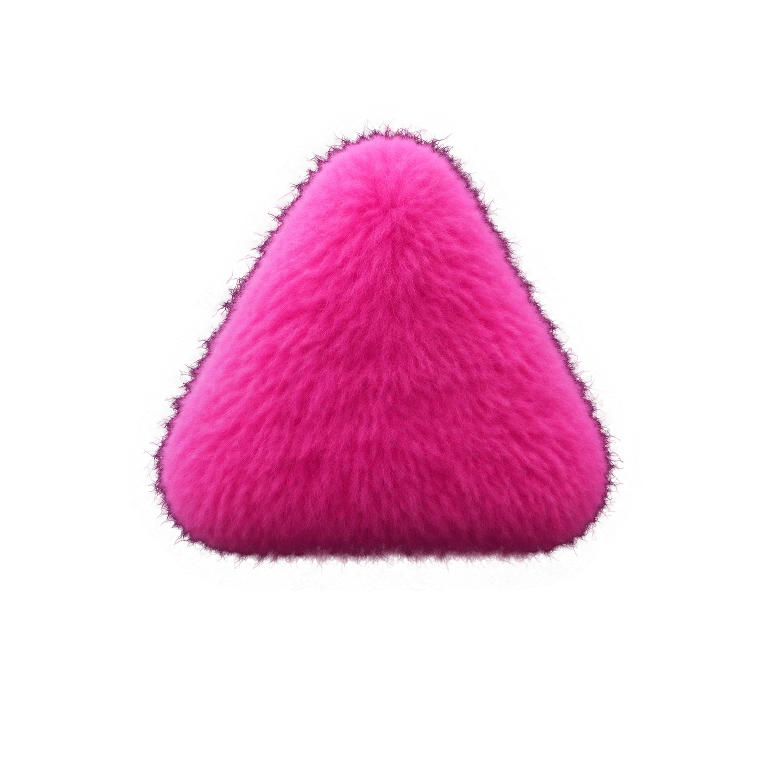
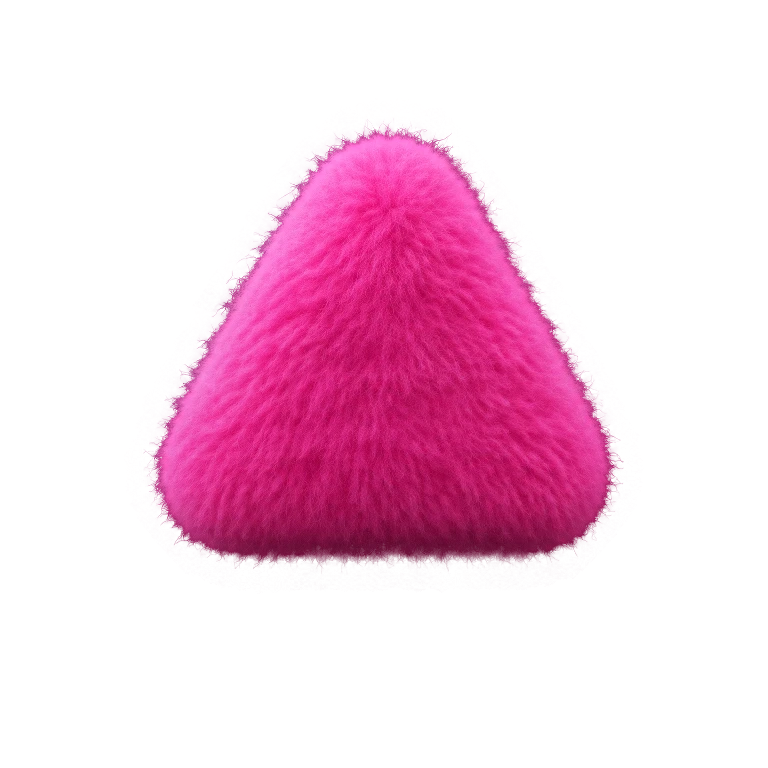
fix: light the dark rim of the plush bodies (0.6.4)
The bodies were cut out on a dark background, so the fibres at the edge
stayed dark and nearly opaque. On a light page they drew a dirty outline.
tools/peluche/fit/lisiere.py lightens that band toward the nearest fur
colour, without a change to alpha. It ran on the v0.6.3 character bodies,
grey shapes and ball. The eye pads did not change.

diff --git a/tools/peluche/fit/lisiere.py b/tools/peluche/fit/lisiere.py
@@ -1,0 +1,75 @@
+"""Lisiere : les fibres du bord prennent la couleur de la fourrure voisine.
+
+    python3 -I lisiere.py <dossier-source> <dossier-sortie>
+
+Les generations sont detourees sur un fond sombre uni (`detoure`, `compose.py`). Les
+fibres que la generation a dessinees sombres au bord restent donc sombres et presque
+opaques : invisibles sur un fond sombre, elles font un contour sale sur un fond clair.
+Ce script eclaircit cette lisiere vers la couleur de la fourrure la plus proche, sans
+toucher a l'alpha : la silhouette et le halo de fibres sont les memes.
+
+Il traite les corps des personnages (`*-corps.webp`), les corps gris (`forme-*.webp`) et
+la boule (`boule.webp`). Pas les patins : leur ombre portee sombre est voulue.
+
+La source est celle de 0.6.3 (`git show v0.6.3:src/plush/assets/<f>`), **jamais sa propre
+sortie** : une seconde passe eclaircirait encore la lisiere.
+"""
+import os, sys
+import numpy as np
+from PIL import Image
+from scipy import ndimage
+
+# CHOISIS, juges a l'oeil sur fond clair (#f5f5f6) et sombre (#1a1a1a), de 240 a 480 px.
+# La lisiere, en fraction du cote de l'image : au-dela, la fourrure ne change pas.
+BANDE = 0.02
+# La part de la couleur voisine dans la lisiere, au bord meme.
+FORCE = 0.85
+# La part du relief propre de chaque fibre gardee (sa luminance relative a la voisine).
+RELIEF = 0.35
+# La couleur voisine est lissee sur ce rayon (fraction du cote) : le grain du coeur n'y passe pas.
+LISSE = 0.008
+
+LUM = np.array([0.2126, 0.7152, 0.0722], np.float32)
+
+
+def lisiere(a):
+    """a : RGBA flottant 0..255. Rend le meme tableau, la lisiere eclaircie."""
+    rgb, al = a[..., :3], a[..., 3] / 255
+    cote = max(al.shape)
+    bande = BANDE * cote
+    corps = al > 0.5
+    profondeur = ndimage.distance_transform_edt(corps)
+    coeur = profondeur >= bande
+    # la couleur du coeur la plus proche, lissee : elle garde la lumiere haut-gauche
+    lisse = ndimage.gaussian_filter(rgb * coeur[..., None], (LISSE * cote, LISSE * cote, 0))
+    poids = ndimage.gaussian_filter(coeur.astype(np.float32), LISSE * cote)
+    lisse = lisse / np.maximum(poids, 1e-6)[..., None]
+    _, (iy, ix) = ndimage.distance_transform_edt(~coeur, return_indices=True)
+    voisine = lisse[iy, ix]
+    # le relief de la fibre, compresse : une fibre plus sombre reste un peu plus sombre
+    relatif = (rgb @ LUM) / np.maximum(voisine @ LUM, 1)
+    eclaircie = voisine * np.clip(1 - RELIEF + RELIEF * relatif, 0.5, 1.15)[..., None]
+    x = np.clip(profondeur / bande, 0, 1)
+    t = (1 - x * x * (3 - 2 * x)) * FORCE
+    out = rgb * (1 - t[..., None]) + eclaircie * t[..., None]
+    return np.concatenate([out, a[..., 3:]], -1)
+
+
+def main(source, sortie):
+    os.makedirs(sortie, exist_ok=True)
+    noms = sorted(f for f in os.listdir(source)
+                  if f.endswith('-corps.webp') or f.startswith('forme-') or f == 'boule.webp')
+    for nom in noms:
+        a = np.asarray(Image.open(os.path.join(source, nom)).convert('RGBA')).astype(np.float32)
+        out = lisiere(a).clip(0, 255).round().astype(np.uint8)
+        image = Image.fromarray(out, 'RGBA')
+        # les memes reglages que l'export de chaque famille (`compose2.py`, `forme.py`)
+        if nom.endswith('-corps.webp'):
+            image.save(os.path.join(sortie, nom), quality=92)
+        else:
+            image.save(os.path.join(sortie, nom), quality=90, method=6)
+        print(nom)
+
+
+if __name__ == '__main__':
+    main(sys.argv[1], sys.argv[2])

diff --git a/tools/peluche/README.md b/tools/peluche/README.md
@@ -143,6 +143,27 @@ the pad to the eye, which turned the fibres into streaks. The scale of each pad 
 
 `fit/ph.json` is the starting point of `compose2.py` when no parameters are given.
 
+## Rim
+
+Every body is cut out of a generation on a dark background, so the fibres that the generation
+drew dark at the edge stay dark and nearly opaque. On a dark page nobody sees them; on a light
+page they draw a dirty outline. `fit/lisiere.py` is the last step for both families: it
+lightens a band at the edge (2 % of the image side) toward the colour of the nearest fur. It
+does not change alpha, so the silhouette and the fibre halo stay the same. It does not touch
+the pads: their dark drop shadow is intended.
+
+```bash
+depot=$(git rev-parse --show-toplevel)
+mkdir -p /tmp/peluche/lisiere/v063
+for f in $(git ls-tree --name-only v0.6.3 src/plush/assets/ | grep -E '(-corps|/forme-|/boule)\.webp$'); do
+  git show "v0.6.3:$f" > "/tmp/peluche/lisiere/v063/$(basename "$f")"
+done
+cd /tmp && "$PELUCHE_PY" -I "$depot/tools/peluche/fit/lisiere.py" /tmp/peluche/lisiere/v063 "$depot/src/plush/assets"
+```
+
+Run it on the v0.6.3 images, or on the new output of a refit, **never on its own output**: a
+second pass lightens the rim again.
+
 ## Measuring
 
 - `mesure/cote-shot.py`: reference | sandbox capture, same framing (the body's box).

diff --git a/CHANGELOG.md b/CHANGELOG.md
@@ -5,6 +5,16 @@ Versioning: [Semantic Versioning](https://semver.org/spec/v2.0.0.html).
 
 ## [Unreleased]
 
+## [0.6.4] — 2026-11-03
+
+### Fixed
+
+- The plush bodies no longer show a dark outline on a light background. The bodies were cut
+  out on a dark background, so the fibres at the edge stayed dark and nearly opaque. The six
+  character bodies, the grey shapes and the ball now have that edge lightened toward the
+  colour of the nearest fur (`tools/peluche/fit/lisiere.py`). Alpha, the silhouettes and the
+  eye pads are unchanged, and the bodies look the same on a dark background.
+
 ## [0.6.3] — 2026-11-03
 
 ### Fixed
